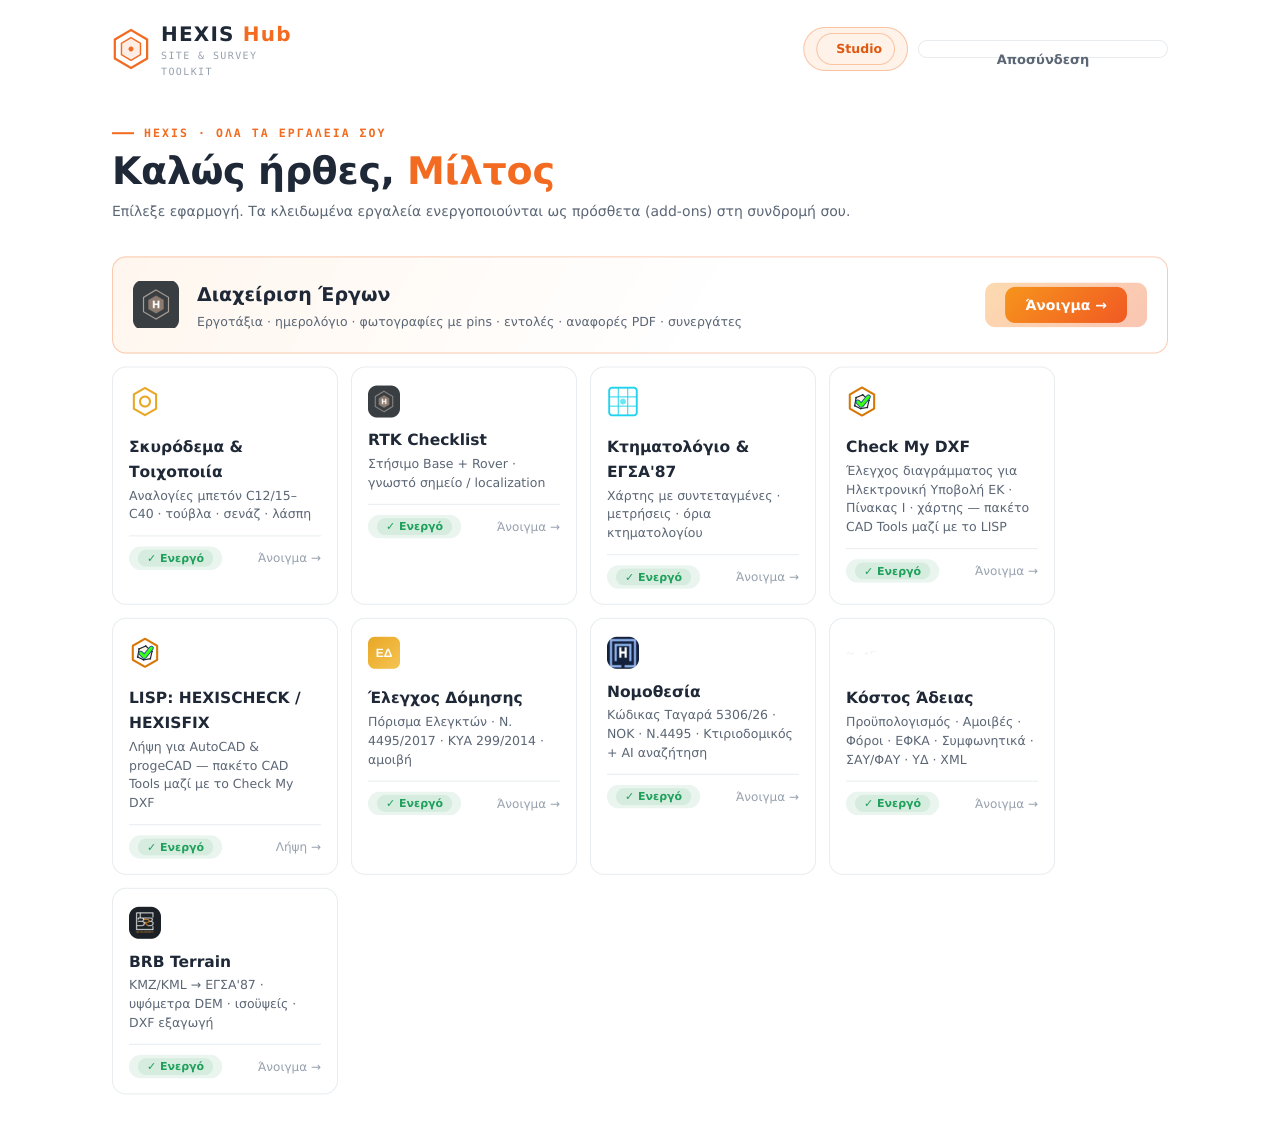
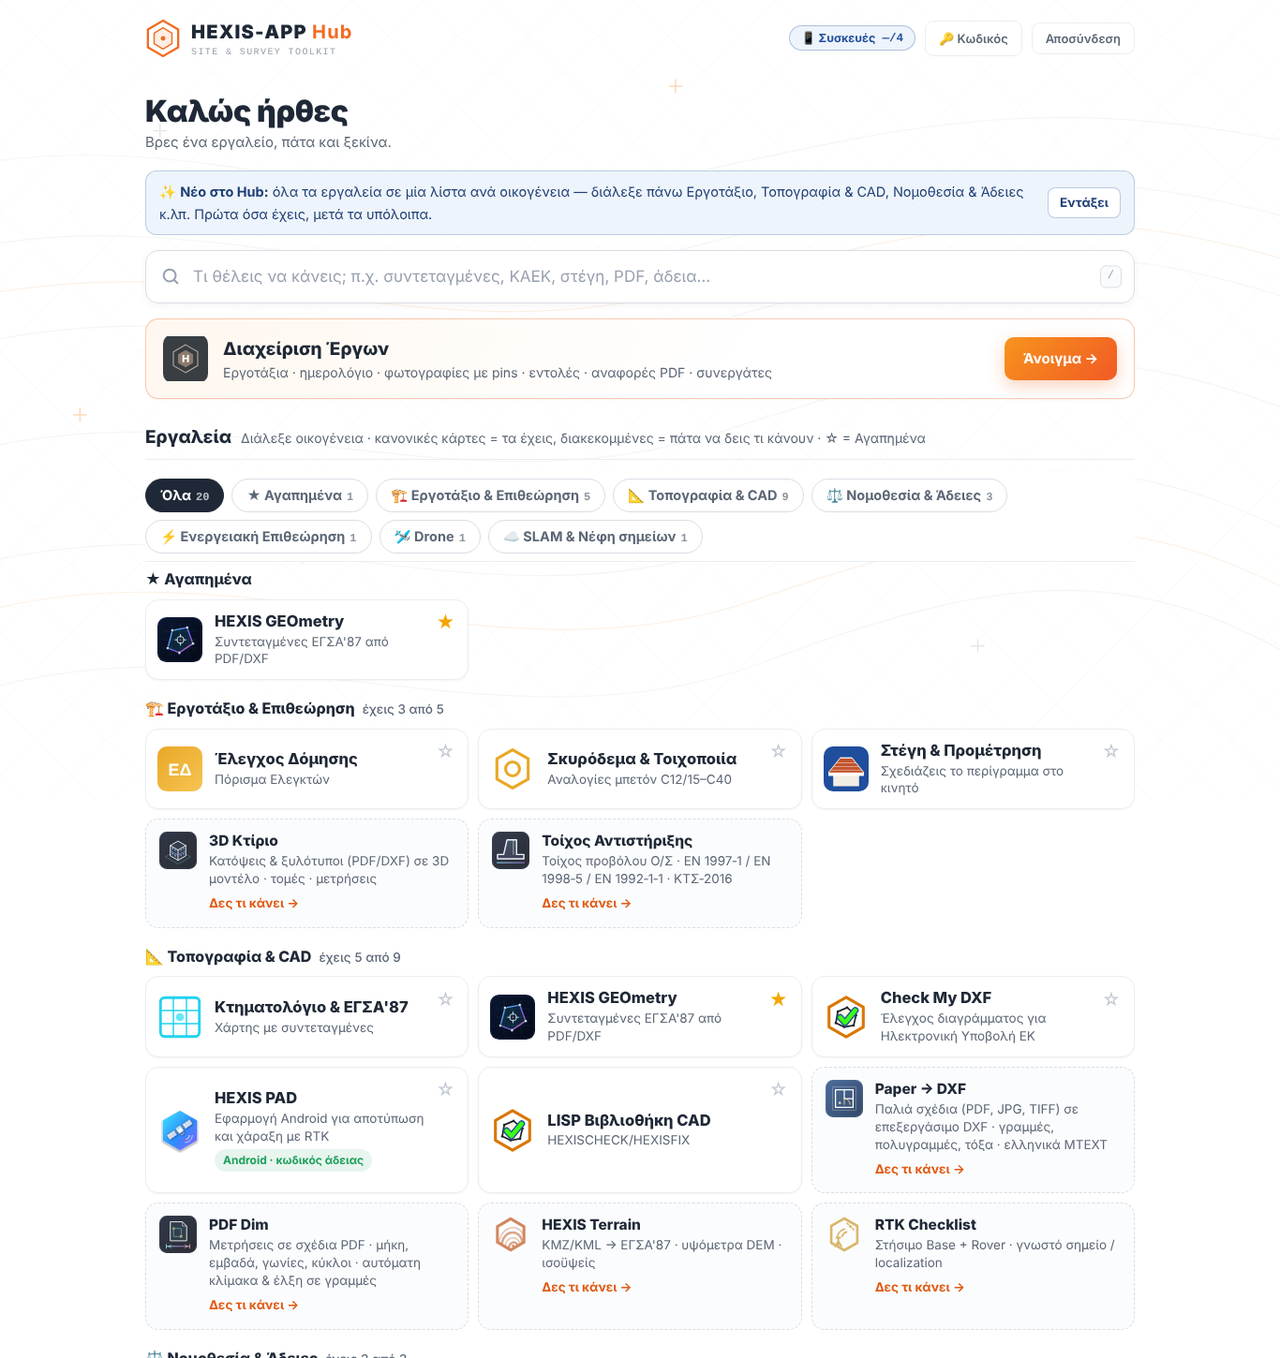
Οδηγίες: το Hub με οικογένειες εργαλείων · νέα εικόνα hub
Claude-Session: https://claude.ai/code/session_01LuVkUNJ6D2oDjTmAecXdPo

diff --git a/manual.html b/manual.html
@@ -88,16 +88,16 @@ footer p{font-size:12px;color:var(--faint)}
 <h3>Πώς βρίσκω γρήγορα ένα εργαλείο</h3>
 <ul>
 <li><b>Αναζήτηση</b> — γράψε στη μεγάλη μπάρα αυτό που θέλεις να κάνεις (π.χ. «ΚΑΕΚ», «στέγη», «μέτρηση PDF», «συντεταγμένες»), όχι απαραίτητα το όνομα του εργαλείου. Με <b>Enter</b> ανοίγει το πρώτο αποτέλεσμα· σε υπολογιστή το πλήκτρο <b>/</b> πάει κατευθείαν στην αναζήτηση και το <b>Esc</b> την καθαρίζει.</li>
-<li><b>Τα εργαλεία μου</b> — όσα έχεις ενεργά εμφανίζονται πρώτα, έτοιμα να ανοίξουν με ένα πάτημα.</li>
-<li><b>☆ Αγαπημένα</b> — πάτα το αστεράκι σε ένα εργαλείο για να μπει πάντα πρώτο. Η επιλογή μένει αποθηκευμένη στη συσκευή.</li>
+<li><b>Οικογένειες</b> — στην ενότητα «Εργαλεία» διάλεξε από τις καρτέλες μια οικογένεια (Εργοτάξιο & Επιθεώρηση, Τοπογραφία & CAD, Νομοθεσία & Άδειες, Ενεργειακή, Drone, Νέφη σημείων) ή «Όλα». Η επιλογή μένει αποθηκευμένη.</li>
+<li><b>Μέσα σε κάθε οικογένεια</b> — πρώτα όσα έχεις ενεργά (κανονική κάρτα, ανοίγουν με ένα πάτημα), μετά όσα δεν έχεις ακόμα (διακεκομμένη κάρτα «Δες τι κάνει» για τη σελίδα παρουσίασης).</li>
+<li><b>☆ Αγαπημένα</b> — πάτα το αστεράκι σε ένα εργαλείο για να μπει στην ομάδα «★ Αγαπημένα» πάνω-πάνω (και στη δική του καρτέλα). Η επιλογή μένει αποθηκευμένη στη συσκευή.</li>
 <li><b>Πρόσφατα</b> — κάτω από την αναζήτηση βλέπεις τα τελευταία εργαλεία που άνοιξες.</li>
-<li><b>Περισσότερα εργαλεία</b> — όσα δεν έχεις ακόμα, ανά κατηγορία (Εργοτάξιο, Νομοθεσία, Τοπογραφία & CAD, Ενεργειακή, Drone, Νέφη σημείων). Πάτα «Δες τι κάνει» για τη σελίδα παρουσίασης.</li>
 </ul>
 <figure class="fig"><img src="hub.png" alt="Η αρχική οθόνη του HEXIS Hub με όλες τις εφαρμογές" loading="lazy" onerror="this.parentElement.classList.add('missing')"><figcaption>Η αρχική οθόνη του HEXIS Hub με όλες τις εφαρμογές</figcaption></figure>
 <h3>Πώς αγοράζω ένα εργαλείο</h3>
 <p>Πάτησε στο εργαλείο που σε ενδιαφέρει: ανοίγει η σελίδα παρουσίασής του με τις δυνατότητες και την ετήσια τιμή. Πάτησε <b>«Ενεργοποίηση»</b> — το αίτημά σου καταχωρείται και η ομάδα του HEXIS επικοινωνεί μαζί σου για την πληρωμή. Μόλις ενεργοποιηθεί, το εργαλείο ανοίγει σε <b>όλες</b> τις συσκευές σου για <b>1 έτος</b>.</p>
 <figure class="fig"><img src="tool-page.png" alt="Σελίδα εργαλείου με το κουμπί ενεργοποίησης" loading="lazy" onerror="this.parentElement.classList.add('missing')"><figcaption>Σελίδα εργαλείου με το κουμπί ενεργοποίησης</figcaption></figure>
-<div class="tip">💡 Τα ενεργά εργαλεία σου βρίσκονται στην ενότητα «Τα εργαλεία μου»· όσα δεν έχεις ενεργοποιήσει βρίσκονται πιο κάτω, στα «Περισσότερα εργαλεία», με πλαίσιο διακεκομμένης γραμμής.</div>
+<div class="tip">💡 Κάθε εργαλείο εμφανίζεται μία φορά, στην οικογένειά του: με κανονικό πλαίσιο όσα έχεις ενεργά, με διακεκομμένη γραμμή όσα δεν έχεις ενεργοποιήσει.</div>
 </section><section class="chapter" id="projects"><div class="chead"><span class="cico"><img src="icon-192.png" alt="" style="width:100%;height:100%;object-fit:contain;border-radius:10px"></span><h2>Διαχείριση Έργων</h2></div>
 <p>Ο πυρήνας του HEXIS: καταγράφεις εντολές, παραγγελίες και παρατηρήσεις με φωτογραφίες και πινέζες πάνω στις κατόψεις, συνεργάζεσαι με την ομάδα σου σε πραγματικό χρόνο, και εξάγεις επαγγελματικές αναφορές PDF για τον πελάτη.</p>
 <figure class="fig"><img src="projects.png" alt="Η αρχική οθόνη με τα έργα και τους μετρητές εκκρεμοτήτων" loading="lazy" onerror="this.parentElement.classList.add('missing')"><figcaption>Η αρχική οθόνη με τα έργα και τους μετρητές εκκρεμοτήτων</figcaption></figure>

diff --git a/hub.html b/hub.html
@@ -99,7 +99,7 @@ body{background:var(--bg);color:var(--text);font-family:var(--font-b);font-size:
 .fav.on{color:#F5A400}
 .tag{display:inline-block;white-space:nowrap;font-size:12px;font-weight:700;padding:2px 9px;border-radius:99px;margin-top:5px;background:rgba(31,160,92,.10);color:var(--green)}
 
-/* Περισσότερα εργαλεία */
+/* Οικογένειες εργαλείων */
 .cats{display:flex;gap:8px;flex-wrap:wrap;margin-bottom:6px;position:sticky;top:0;z-index:5;background:var(--bg);padding:8px 0;border-bottom:1px solid var(--border)}
 @media(max-width:600px){.cats{flex-wrap:nowrap;overflow-x:auto;-webkit-overflow-scrolling:touch;scrollbar-width:none}.cats::-webkit-scrollbar{display:none}}
 .chip{font-family:var(--font-d);font-weight:700;font-size:14.5px;color:var(--muted);background:#fff;border:1px solid var(--border-strong);border-radius:99px;padding:8px 15px;cursor:pointer;white-space:nowrap}
